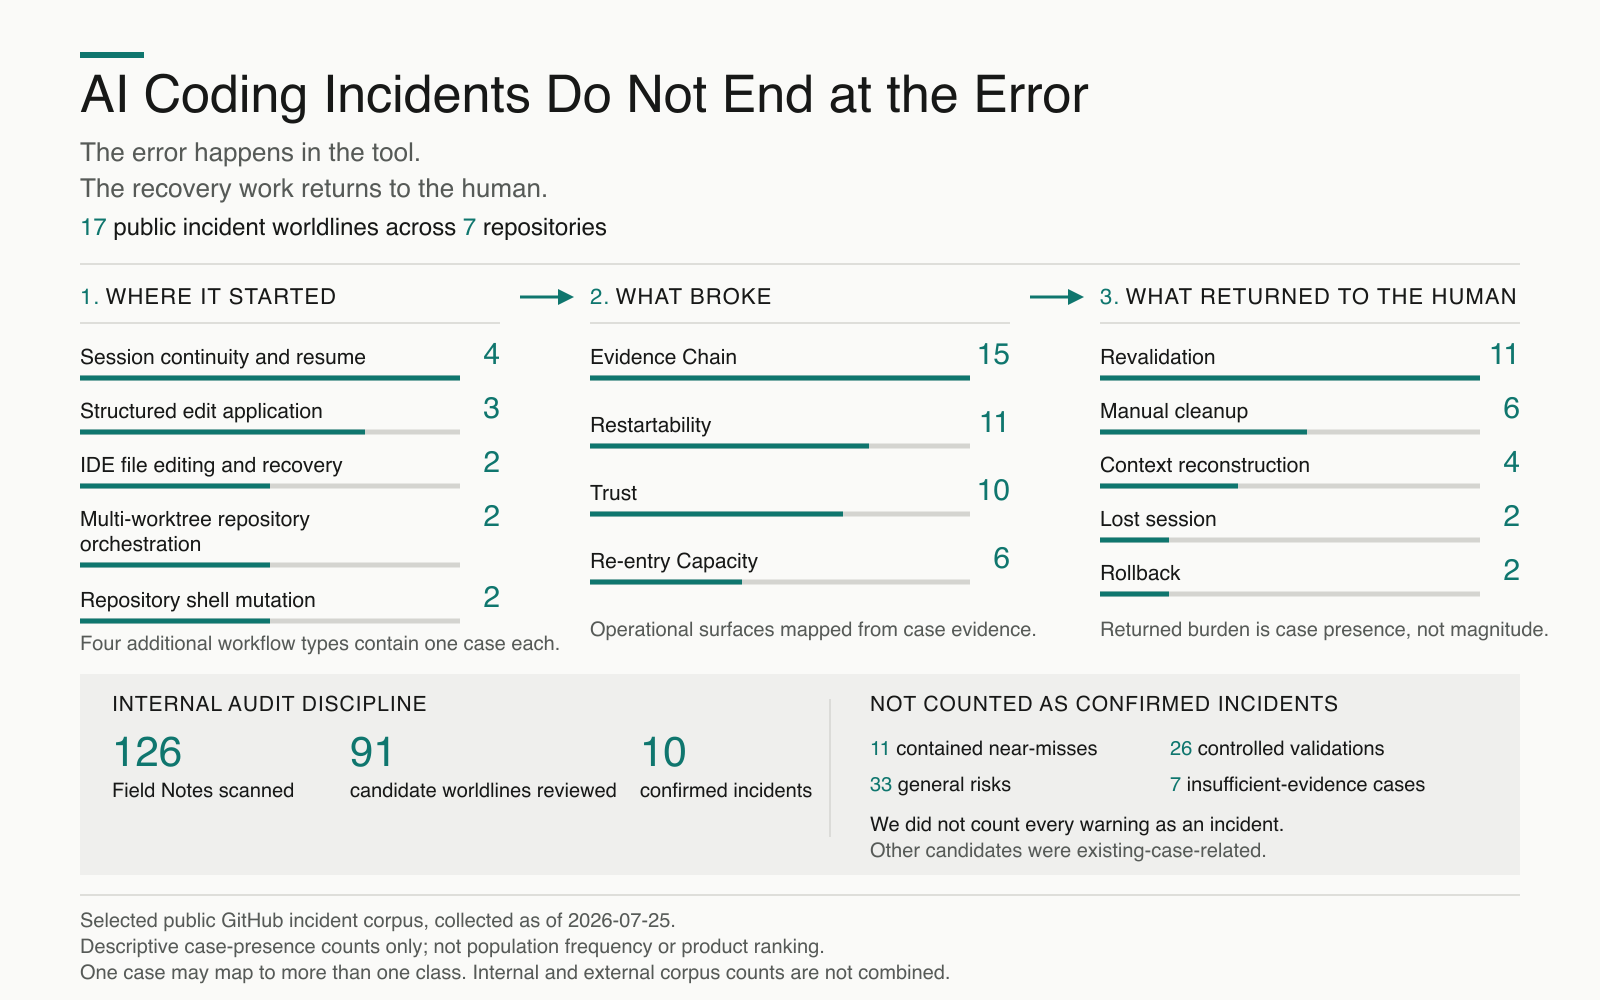
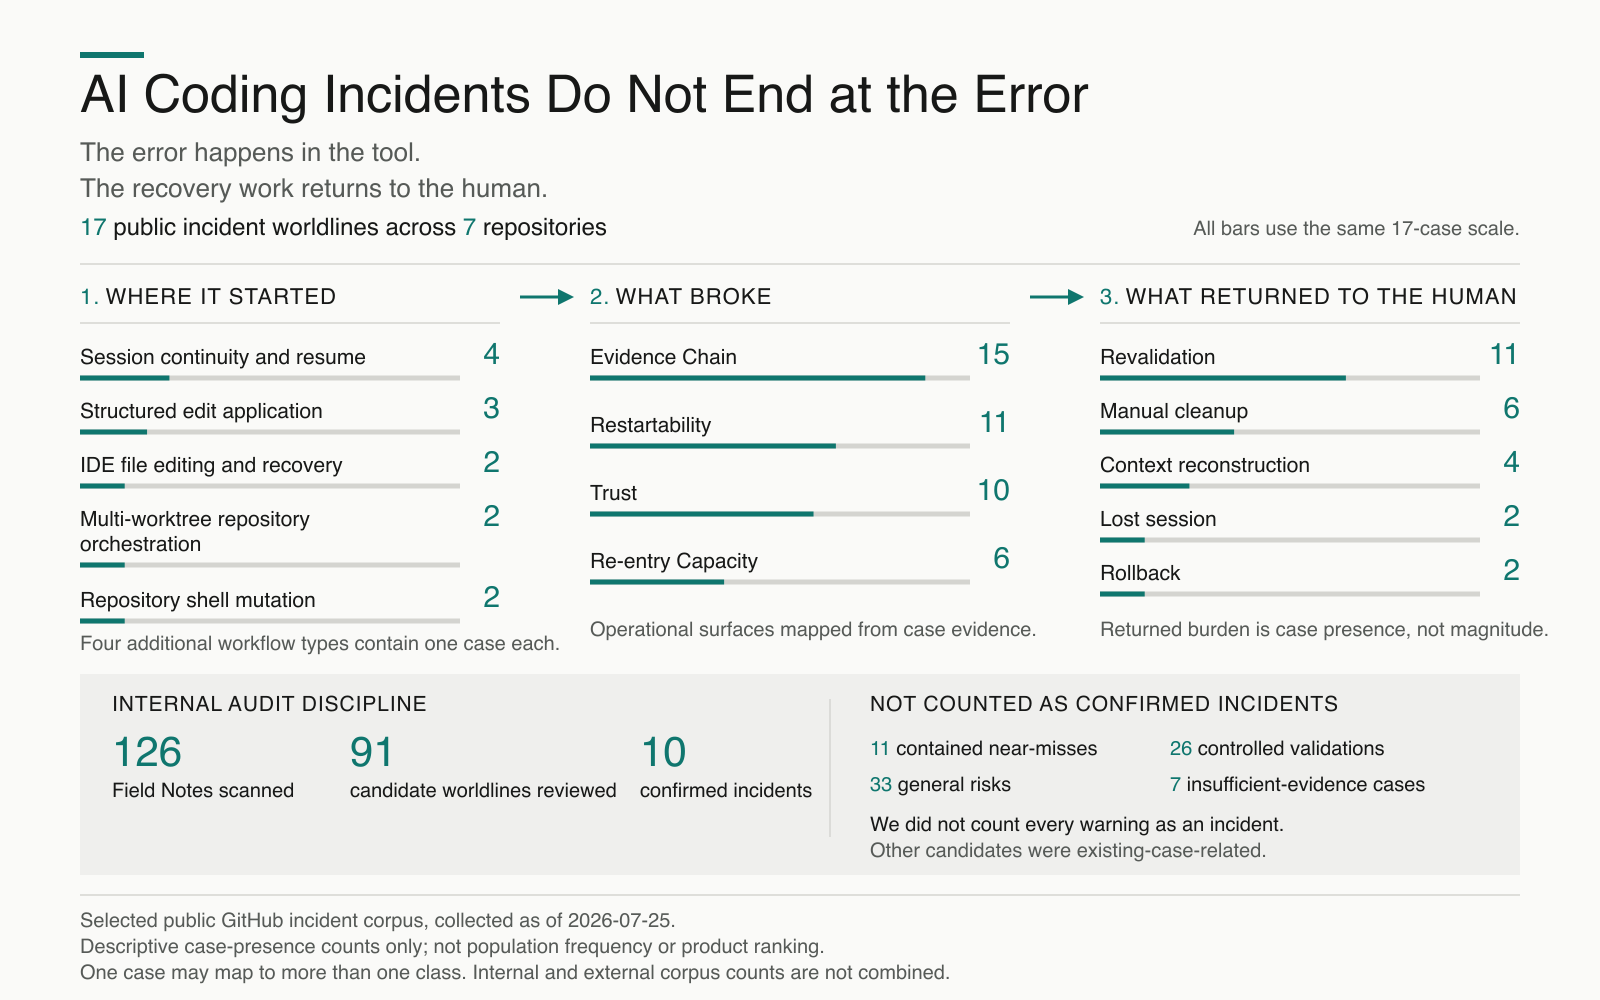
Use a shared scale for incident bars

diff --git a/case_studies/external_ai_workflow_incident_map_v0_1.md b/case_studies/external_ai_workflow_incident_map_v0_1.md
@@ -99,6 +99,9 @@ The selected public GitHub incident corpus was collected as of `2026-07-25`.
   safety, product quality, or product ranking.
 - One external case may map to more than one normalized what-broke or
   returned-burden class, so class counts do not sum to 17.
+- All bar lengths use the external-corpus denominator of 17 and the same common
+  track width (`displayed case count / 17 × common track width`), so bars are
+  visually comparable across all three external panels.
 - Returned-burden counts indicate case presence, not burden magnitude.
 - The title and subtitle are editorial framing, not source-authored causal or
   prevalence claims.
@@ -113,9 +116,11 @@ Editorial three-stage flow based on 17 public AI coding incident worldlines
 across seven GitHub repositories. Five workflow types lead to broken
 operational surfaces—Evidence Chain 15, Restartability 11, Trust 10, and
 Re-entry Capacity 6—which return work to people: Revalidation 11, Manual
-cleanup 6, Context reconstruction 4, Lost session 2, and Rollback 2. A separate
-internal audit panel reports 126 Field Notes scanned, 91 candidate worldlines
-reviewed, and 10 confirmed incidents, while excluding 11 contained
+cleanup 6, Context reconstruction 4, Lost session 2, and Rollback 2. All bars
+use a shared 17-case scale, making the three external panels visually
+comparable. A separate internal audit panel reports 126 Field Notes scanned,
+91 candidate worldlines reviewed, and 10 confirmed incidents, while excluding
+11 contained
 near-misses, 26 controlled validations, 33 general risks, and 7
 insufficient-evidence cases. Internal and external corpus counts are not
 combined.
